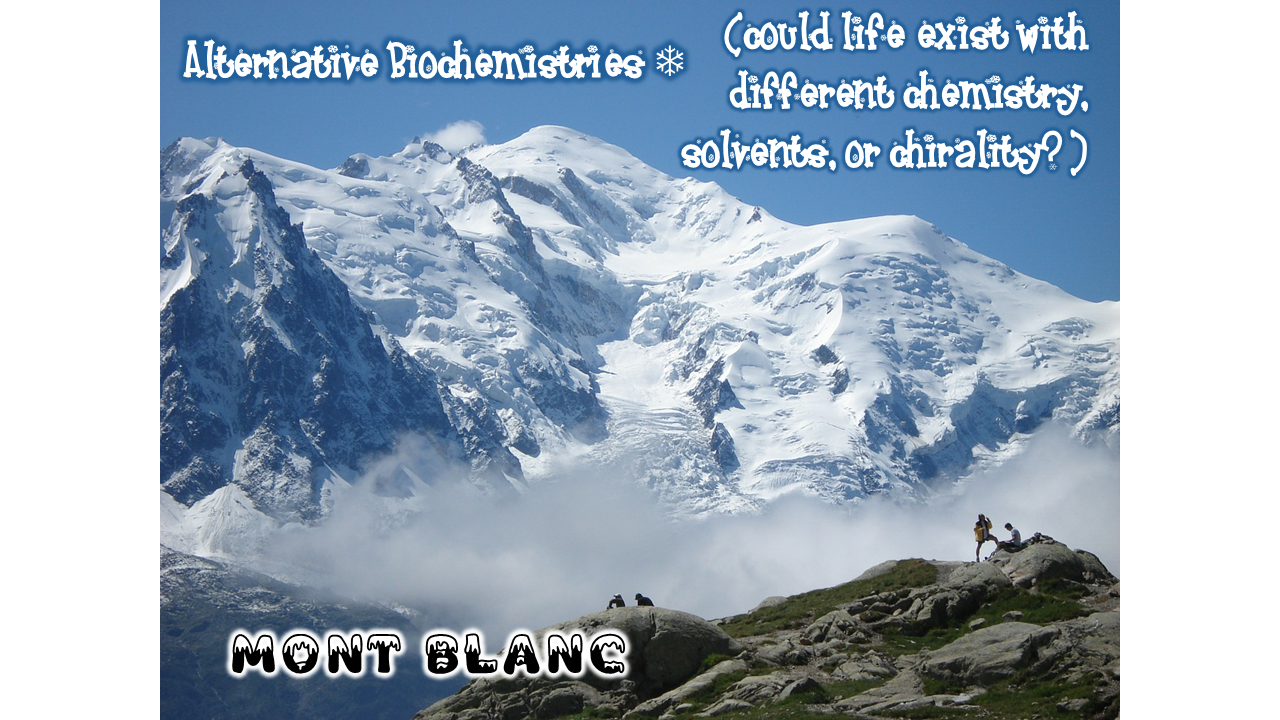
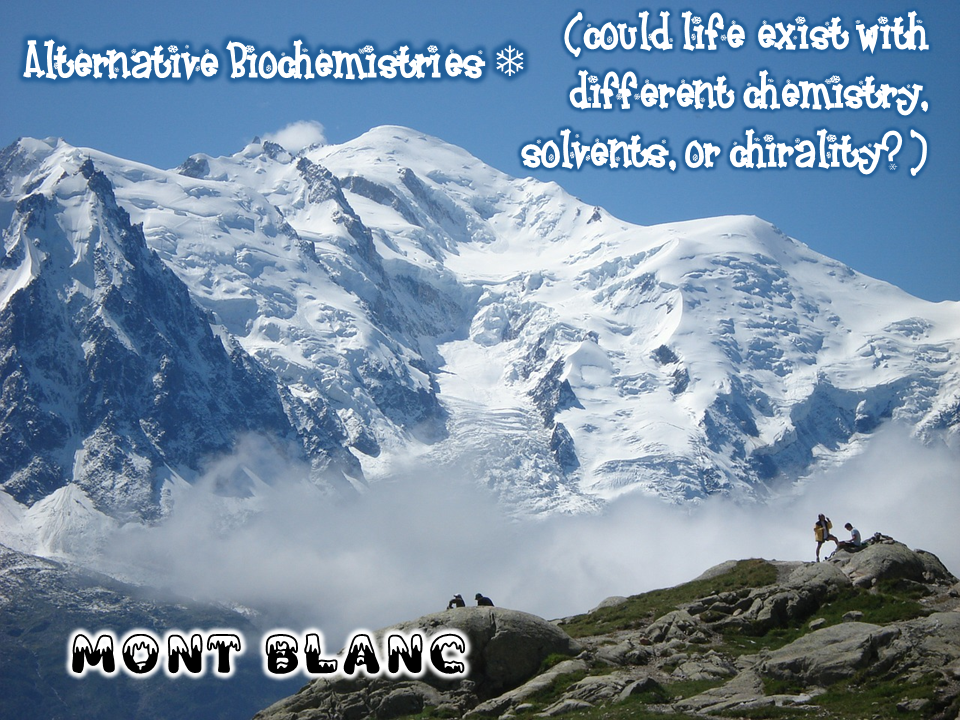
fix: retrim Mont Blanc mountain photo (960x720, 4:3 default ratio, drop .mtn-178 class)

diff --git a/biology/Mont_Blanc_alternative_biochemistries/index.html b/biology/Mont_Blanc_alternative_biochemistries/index.html
@@ -16,7 +16,7 @@
 
         <p class="subtitle">Could life exist with different chemistry, solvents, or molecular chirality than Earth life? Ten research paths explore unsolved questions about non-standard life — from life in ammonia oceans to mirror-image organisms, from silicon-based frameworks to shadow biospheres hiding on Earth. Together, we climb.</p>
 
-        <div class="gp-gallery two mtn-178">
+        <div class="gp-gallery two">
             <figure>
                 <img src="/images/mont-blanc-alternative-biochemistries-frances-arnold-sherpa-guide.png" alt="Frances Arnold — the sherpa guide for Mont Blanc – Alternative Biochemistries">
                 <figcaption><strong>Our Sherpa guide welcomes us:</strong> Hi! I&rsquo;m Dr. Frances Hamilton Arnold 🧪👩🔬, an American chemical engineer, biochemist, and recipient of the 2018 Nobel Prize in Chemistry 🏆🌟 &mdash; the first American woman ever to win in this category! 🇺🇸💪 I&rsquo;m the Linus Pauling Professor of Chemical Engineering, Bioengineering, and Biochemistry at Caltech 🏛, and I made a career out of teaching nature new tricks. 🌿🧬 Instead of painstakingly designing enzymes from scratch using computer models (which kept failing because biology is just too complex! 🤷♀💻), I realized <em>nature herself</em> is the best engineer. 🌍🔧 My breakthrough method &mdash; <em>directed evolution</em> &mdash; takes natural selection out of the wild and puts it into a laboratory flask! 🧫⚡ Here&rsquo;s the recipe: (1) <strong>Mutate</strong> &mdash; introduce random genetic mutations into an enzyme&rsquo;s DNA 🧬🎲; (2) <strong>Screen</strong> &mdash; test the mutants to find the ones that perform best at the task you want 🔍🏅; (3) <strong>Repeat</strong> &mdash; take the winners, mutate them again, and keep cycling! 🔄🧪 Through this accelerated evolution loop ♻, my lab can create hyper-efficient, specialized proteins in months instead of the millions of years nature would need. ⏳➡⚡ <strong>Let me tell you a funny story!</strong> 😄 Before all the Nobel glory, I left home at 15 to live on my own in Pittsburgh! 🏙 To pay rent, I worked as a cocktail waitress 🍸 and drove big yellow taxis 🚕💛 &mdash; not exactly the r&eacute;sum&eacute; you&rsquo;d expect for a future chemistry legend! 😂 I was a self-described rebel who hitchhiked to Washington, D.C. to protest the Vietnam War ✊☮, and I even dreamed of becoming a heart surgeon 🫀 &mdash; until I spent months devouring medical books only to discover the sight of blood makes me <em>incredibly nauseous</em>! 🤢😅 So&hellip; a very sensible pivot into engineering and biochemistry! 🔬✨ Today, I describe my enzyme-breeding method as something like &ldquo;how humans breed cats and dogs&rdquo; 🐱🐶 &mdash; just faster, weirder, and at a molecular scale. 🔬💫</figcaption>
